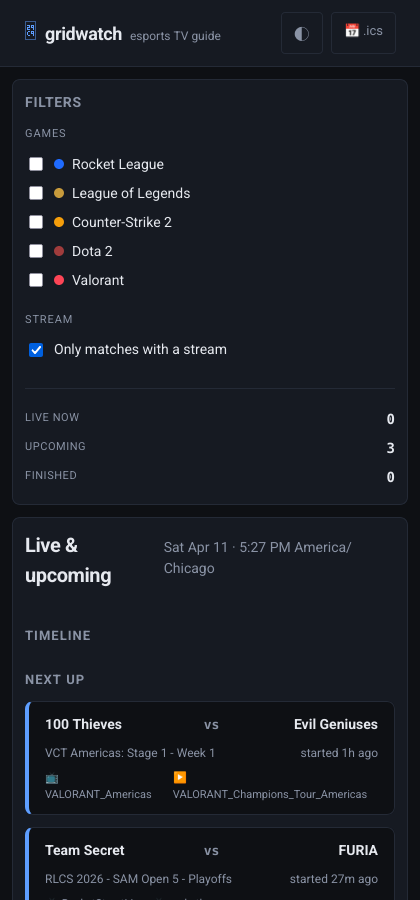
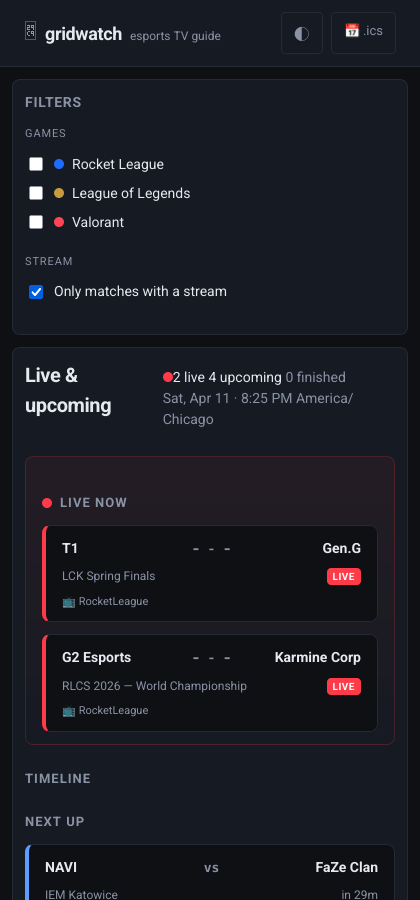
ui: move live/upcoming/finished counters from sidebar into view-head
The sidebar was only rendered on full page load. After htmx swapped
the grid partial (on filter changes, SSE revision bumps, etc.) the
sidebar stats went stale and users saw 'live now: 0' even when the
grid clearly had live matches. Moving the counters inside the partial
that actually re-renders fixes the freshness problem.

Also update screenshots so the README reflects the new layout.

diff --git a/internal/ui/static/css/base.css b/internal/ui/static/css/base.css
@@ -219,9 +219,30 @@ h1, h2, h3, h4 {
   display: flex;
   align-items: baseline;
   justify-content: space-between;
+  gap: var(--space-4);
+  flex-wrap: wrap;
   margin-bottom: var(--space-5);
 }
 .view-head h2 { font-size: 20px; letter-spacing: -0.02em; }
+.view-head-right {
+  display: flex;
+  align-items: center;
+  gap: var(--space-5);
+  flex-wrap: wrap;
+}
+.view-stats {
+  display: flex;
+  gap: var(--space-4);
+  align-items: center;
+}
+.stat-inline {
+  font-size: 12px;
+  color: var(--fg);
+  display: inline-flex;
+  align-items: center;
+  gap: var(--space-1);
+}
+.stat-inline.muted { color: var(--fg-muted); }
 
 .section-title {
   font-size: 13px;

diff --git a/internal/ui/templates/partials/grid.html b/internal/ui/templates/partials/grid.html
@@ -1,6 +1,13 @@
 <div class="view-head">
   <h2>Live &amp; upcoming</h2>
-  <span class="muted now-clock">{{formatDateIn .Now .Timezone}} · {{formatTimeIn .Now .Timezone}} {{.Timezone}}</span>
+  <div class="view-head-right">
+    <div class="view-stats">
+      <span class="stat-inline"><span class="dot live-dot"></span>{{len .Live}} live</span>
+      <span class="stat-inline">{{len .Upcoming}} upcoming</span>
+      <span class="stat-inline muted">{{len .Recent}} finished</span>
+    </div>
+    <span class="muted now-clock">{{formatDateIn .Now .Timezone}} · {{formatTimeIn .Now .Timezone}} {{.Timezone}}</span>
+  </div>
 </div>
 
 {{if .Live}}

diff --git a/internal/ui/templates/partials/filters.html b/internal/ui/templates/partials/filters.html
@@ -28,8 +28,7 @@
   </fieldset>
 </form>
 
-<div class="sidebar-stats">
-  <div class="stat"><span class="k">live now</span><span class="v">{{len .Live}}</span></div>
-  <div class="stat"><span class="k">upcoming</span><span class="v">{{len .Upcoming}}</span></div>
-  <div class="stat"><span class="k">finished</span><span class="v">{{len .Recent}}</span></div>
-</div>
+<!-- sidebar-stats moved into grid.html so SSE/htmx partial refreshes
+     update the counters. When they lived here, the sidebar only
+     re-rendered on full page load and stats went stale after the
+     first background poll. -->
